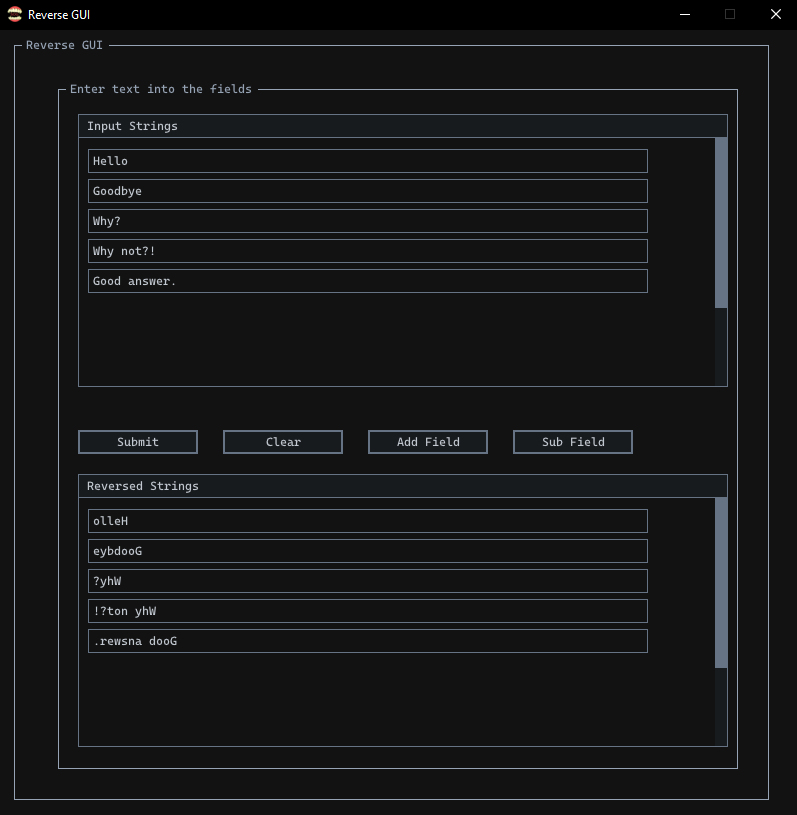
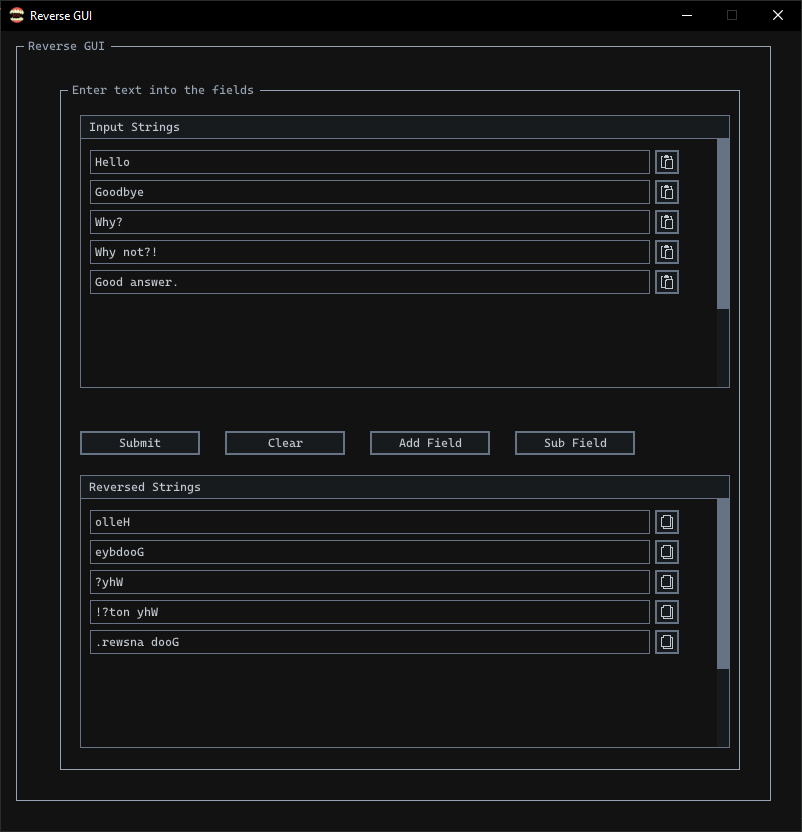
implement copy paste

diff --git a/src/ReverseGUI.c b/src/ReverseGUI.c
@@ -36,6 +36,9 @@ static void ButtonSubmit(int* fields, TBox* text, TBox* out);
 static void ButtonClear(int* fields, TBox* text, TBox* reverse);
 static void ButtonAddField(int* fields, const int* max);
 static void ButtonSubField(int* fields, const int* max, TBox* text, TBox* reverse);
+static void ButtonCopy(char* text);
+static void ButtonPaste(char* text);
+
 static char* strReverse(const char* msg);
 static TBox* textAlloc(const int* fields);
 
@@ -135,9 +138,14 @@ int main(){
 
         BeginScissorMode(ReversePanelView.x, ReversePanelView.y, ReversePanelView.width, ReversePanelView.height);
         for (int i = 0; i < FieldsValue; i++) {
-            if (strlen(reversedOutputs[i].text) == 0) continue;
-            Rectangle rec = { ScrollPnlReverseRec.x + ScrollPanelOutputScrollOffset.x + 10, ScrollPnlReverseRec.y + (ScrollPanelOutputScrollOffset.y + 35) + (reverseOffset * i), 560, 24 };
-            if (GuiTextBox(rec, reversedOutputs[i].text, 128, reversedOutputs[i].mode)) reversedOutputs[i].mode = !reversedOutputs[i].mode;
+            if (strlen(reversedOutputs[i].text) == 0) {
+                continue;
+            } else {
+                Rectangle rec = { ScrollPnlReverseRec.x + ScrollPanelOutputScrollOffset.x + 10, ScrollPnlReverseRec.y + (ScrollPanelOutputScrollOffset.y + 35) + (reverseOffset * i), 560, 24 };
+                if (GuiTextBox(rec, reversedOutputs[i].text, 128, reversedOutputs[i].mode)) reversedOutputs[i].mode = !reversedOutputs[i].mode;
+                Rectangle cpy = { ScrollPnlReverseRec.x + ScrollPanelOutputScrollOffset.x + 575, ScrollPnlReverseRec.y + (ScrollPanelOutputScrollOffset.y + 35) + (reverseOffset * i), 24, 24 };
+                if (GuiButton(cpy, "#16#")) ButtonCopy(reversedOutputs[i].text);
+            }
         }
         EndScissorMode();
         //----------------------------------------------------------------------------------
@@ -154,6 +162,8 @@ int main(){
         for (int i = 0; i < FieldsValue; i++){
             Rectangle rec = { ScrollPnlTextRec.x + ScrollPanelInputScrollOffset.x + 10, ScrollPnlTextRec.y + (ScrollPanelInputScrollOffset.y + 35) + (offset * (i)), 560, 24 };
             if (GuiTextBox(rec, textInputs[i].text, 128, textInputs[i].mode)) textInputs[i].mode = !textInputs[i].mode;
+            Rectangle pst = { ScrollPnlTextRec.x + ScrollPanelInputScrollOffset.x + 575, ScrollPnlTextRec.y + (ScrollPanelInputScrollOffset.y + 35) + (offset * i), 24, 24 };
+            if (GuiButton(pst, "#18#")) ButtonPaste(textInputs[i].text);
         }
         EndScissorMode();
         //----------------------------------------------------------------------------------
@@ -229,6 +239,14 @@ static void ButtonSubField(int* fields, const int* max, TBox* text, TBox* revers
         strncpy_s(text[i].text, MAXCHARS, "\0", MAXCHARS);
         strncpy_s(reverse[i].text, MAXCHARS, "\0", MAXCHARS);
     }
+}
+
+static void ButtonCopy(char* text){
+    SetClipboardText(text);
+}
+
+static void ButtonPaste(char* text){
+    strncpy_s(text, MAXCHARS, GetClipboardText(), MAXCHARS);
 }
 
 static TBox* textAlloc(const int* fields){

diff --git a/README.md b/README.md
@@ -14,7 +14,7 @@ Current Progress
 
 TODO
 -----
-- implement copy/paste
+- I think I've done what I can.
 
 LIBRARY CHANGES
 ---------------
